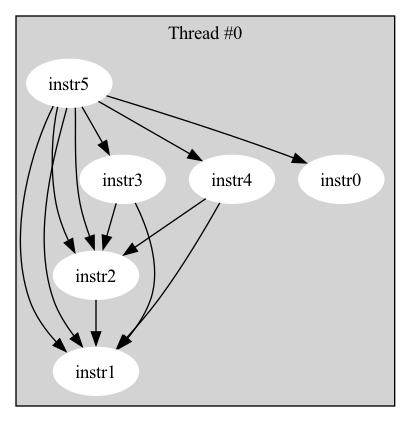
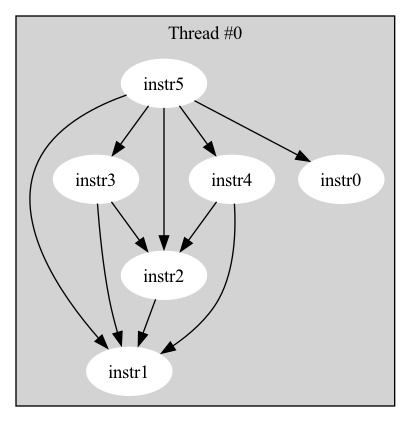
Better graph visualization

diff --git a/src/dependency_graph.rs b/src/dependency_graph.rs
@@ -4,6 +4,7 @@ use std::cell::RefCell;
 use std::collections::HashSet;
 use std::fmt::Display;
 use std::rc::Rc;
+use rand::Rng;
 
 type PropagateId = String;
 
@@ -49,8 +50,14 @@ impl NodeType {
 
     pub fn to_dot(&self) -> String {
         match self {
-            Self::Instruction(instruction) => format!("instr{}", instruction.line_index.to_string()),
-            Self::Propagate(propagate) => format!("propagate{}", propagate.associated_write.line_index.to_string()),
+            Self::Instruction(instruction) => {
+                format!("T{}Xinstr{}", instruction.thread_id.to_string(), instruction.line_index.to_string())
+            }
+            Self::Propagate(propagate) => format!(
+                "T{}Xprop{}",
+                propagate.associated_write.thread_id.to_string(),
+                propagate.associated_write.line_index.to_string()
+            ),
         }
     }
 }
@@ -95,10 +102,19 @@ impl InstructionNode {
         }))
     }
 
-    // pub fn add_dependency(from: Rc<RefCell<InstructionNode>>, to: Rc<RefCell<InstructionNode>>) {
-    //     from.borrow_mut().depends_on.push(to.clone());
-    //     to.borrow_mut().depends_on_me.push(from.clone());
-    // }
+    pub fn add_dependency(from: Rc<RefCell<InstructionNode>>, to: Rc<RefCell<InstructionNode>>) {
+        if from
+            .borrow()
+            .depends_on
+            .clone()
+            .into_iter()
+            .any(|x| x.borrow().instruction.id() == to.borrow().instruction.id())
+        {
+            return;
+        }
+        from.borrow_mut().depends_on.push(to.clone());
+        to.borrow_mut().depends_on_me.push(from.clone());
+    }
 }
 
 pub struct DependencyGraph {
@@ -178,11 +194,7 @@ impl DependencyGraph {
                     }
                 });
                 for depended_node in depended_nodes {
-                    cur_node
-                        .borrow_mut()
-                        .depends_on_me
-                        .push(depended_node.clone());
-                    depended_node.borrow_mut().depends_on.push(cur_node.clone());
+                    InstructionNode::add_dependency(depended_node.clone(), cur_node.clone());
                 }
             }
             _ => {}
@@ -203,14 +215,7 @@ impl DependencyGraph {
                     }
                 });
                 for dependant_node in dependant_nodes {
-                    cur_node
-                        .borrow_mut()
-                        .depends_on
-                        .push(dependant_node.clone());
-                    dependant_node
-                        .borrow_mut()
-                        .depends_on_me
-                        .push(cur_node.clone());
+                    InstructionNode::add_dependency(cur_node.clone(), dependant_node.clone());
                 }
             }
             _ => {}
@@ -328,10 +333,7 @@ impl DependencyGraph {
             });
 
             for dependant_node in dependant_nodes {
-                dependant_node
-                    .borrow_mut()
-                    .depends_on
-                    .push(propagate_node.clone());
+                InstructionNode::add_dependency(dependant_node.clone(), propagate_node.clone());
             }
 
             // Add dependencies to other propagates
@@ -352,15 +354,26 @@ impl DependencyGraph {
             });
 
             for depended_node in depended_nodes {
-                propagate_node
-                    .borrow_mut()
-                    .depends_on
-                    .push(depended_node.clone());
+                InstructionNode::add_dependency(propagate_node.clone(), depended_node.clone());
+                // propagate_node
+                //     .borrow_mut()
+                //     .depends_on
+                //     .push(depended_node.clone());
             }
         }
     }
 
     pub fn to_dot(&self) -> String {
+        fn get_color() -> Color {
+            let mut rng = rand::thread_rng();
+            match rng.gen_range(0..=4) {
+                0 => Color::PaleGreen,
+                1 => Color::PaleTurquoise,
+                2 => Color::Red,
+                3 => Color::Blue,
+                _ => Color::Black,
+            }
+        }
         let mut output_bytes = Vec::new();
         {
             let mut writer = DotWriter::from(&mut output_bytes);
@@ -374,17 +387,19 @@ impl DependencyGraph {
             }
 
             for thread_id in threads {
+                // println!("Thread #{}", thread_id);
                 let mut cluster = digraph.cluster();
-                cluster.set_style(Style::Filled);
+                cluster.set_color(get_color());
                 cluster
                     .node_attributes()
                     .set_style(Style::Filled)
-                    .set_color(Color::White);
+                    .set_color(Color::LightGrey);
                 cluster.set_label(format!("Thread #{}", thread_id).as_str());
                 for node in &self.nodes {
                     if node.borrow().instruction.thread_id() == thread_id {
                         let node_label = node.borrow().instruction.to_dot();
                         for dependency in &node.borrow().depends_on {
+                            // println!("{} -> {}", node_label, dependency.borrow().instruction.to_dot());
                             let dependency_label = dependency.borrow().instruction.to_dot();
                             cluster.edge(node_label.as_str(), dependency_label.as_str());
                         }
@@ -392,7 +407,6 @@ impl DependencyGraph {
                 }
             }
         }
-
 
         // {
         //     let mut writer = DotWriter::from(&mut output_bytes);

diff --git a/src/lib.rs b/src/lib.rs
@@ -48,7 +48,10 @@ impl InterpretorSC {
                 println!("{}", self.system.memory_subsystem.memory);
                 continue;
             }
-            let index: usize = input.trim().parse::<usize>().expect("Invalid command or index");
+            let index: usize = input
+                .trim()
+                .parse::<usize>()
+                .expect("Invalid command or index");
             if index >= options.len() {
                 println!("Invalid index");
                 continue;
@@ -97,7 +100,10 @@ impl InterpretorTSO {
                 self.system.save_graph(path);
                 continue;
             }
-            let index: usize = input.trim().parse::<usize>().expect("Invalid command or index");
+            let index: usize = input
+                .trim()
+                .parse::<usize>()
+                .expect("Invalid command or index");
             if index >= options.len() {
                 println!("Invalid index");
                 continue;

diff --git a/src/thread_subsystem.rs b/src/thread_subsystem.rs
@@ -208,7 +208,11 @@ impl TSO {
                 Instruction::Fence(_) => {
                     self.dependency_graph
                         .remove_node(instruction_node.clone(), None, self.is_pso);
-                }
+                },
+                // Instruction::ConditionalJump(Reference::Register(reg), label) => {
+                //     let value = self.registers.load(reg.as_str(), thread_id);
+                //
+                // },
                 _ => {
                     panic!("Instruction not supported");
                 }
